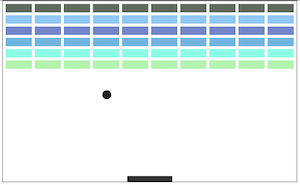
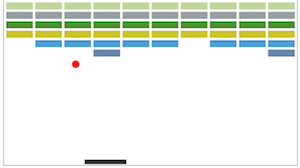
Auto ball placement, new screenshot. Fix top border hit.

diff --git a/breakoid.js b/breakoid.js
@@ -1,30 +1,28 @@
-// Good JS class template: http://labs.tomasino.org/2011/11/10/javascript-class-template/
-
 ;(function (window) {
 
     function Breakoid (canvasId) {
 
-        Breakoid.TICKS_INTERVAL = 10
-        Breakoid.NBROWS         = 6
+        Breakoid.TICKS_INTERVAL = 1
+        Breakoid.NBROWS         = 1
         Breakoid.NBCOLS         = 10
         Breakoid.BRICK_HEIGHT   = 15
         Breakoid.EMPTY_SPACE    = 5
         Breakoid.BAR_HEIGHT     = 10
         Breakoid.BAR_COLOR      = '#333333'
-        Breakoid.BAR_SPEED      = 4
+        Breakoid.BAR_SPEED      = 3
         Breakoid.BAR_FRICTION   = 0.95
         Breakoid.BALL_COLOR     = 'red'
         Breakoid.BALL_SIZE      = 8
 
         var _bricksArray = new Array(Breakoid.NBROWS)
+        , _ctx // context
         , _gameWidth, _gameHeight // canvas width/height
         , _brickWidth
-        , _ctx // context
         , _barX, _barY, _barWidth, _barVelocity = 0 // bar properties
-        , _ballX = 100, _ballY = 250, _ballDirX = 1, _ballDirY = -1 // ball vars //TODO PLACE BALL AUTO
+        , _ballX, _ballY, _ballDirX = -1, _ballDirY = 1 // ball properties
         , _interval // interval
         , _won, _pause = false // state of the game
-        , _keys = []
+        , _keys = [] 
 
         function __construct (canvasId) {
             var canvas = document.getElementById(canvasId)
@@ -32,10 +30,12 @@
                 _ctx        = canvas.getContext('2d')
                 _gameWidth  = canvas.width
                 _gameHeight = canvas.height
-                _barWidth   = _gameWidth / 7.0
+                _barWidth   = _gameWidth / 8.0
                 _brickWidth = (_gameWidth / Breakoid.NBCOLS) - (Breakoid.EMPTY_SPACE * Breakoid.NBCOLS / Breakoid.NBCOLS+0.5)
                 _barX       = (canvas.width / 2) - (_barWidth / 2)
                 _barY       = canvas.height - Breakoid.BAR_HEIGHT - 2
+                _ballX      = _gameWidth / 1.3
+                _ballY      = _gameHeight / 2
                 buildGame()
             } else {
                 console.log('No canvas with id: %s', canvasId)
@@ -57,30 +57,22 @@
             // Bar
             _ctx.fillStyle = Breakoid.BAR_COLOR
             _ctx.fillRect(_barX, _barY, _barWidth, Breakoid.BAR_HEIGHT)
-            // Bar movements
-            //window.document.onkeydown = keyboardListener
-            document.body.addEventListener("keydown", function (e) {
+            // Bar movements and keyboard shortcuts
+            window.document.onkeydown = function (e) {
                 _keys[e.keyCode] = true
-            });
-            document.body.addEventListener("keyup", function (e) {
+                if (e.keyCode == 80) {
+                    if (!_pause) pause()
+                    else resume()
+                } 
+            }
+            window.document.onkeyup = function (e) {
                 _keys[e.keyCode] = false
-            });
-        };
-
-        function keyboardListener (e) {
-            /*switch (e.keyCode) {
-                case 80: // pause
-                    if (!_pause)
-                        pause()
-                    else
-                        resume()
-                break
-            }*/
+            }
         };
 
         function tick () {
             clearContext()
-            ballOnTick()
+            ballOnTick() // Ball
             // Bricks
             _won = true
             for (var i=0 ; i<Breakoid.NBROWS ; i++) {
@@ -94,22 +86,21 @@
             }
             //if (_won)
                 //gameWon()
-            // Bar
-            barOnTick()
+            barOnTick() // Bar
         };
 
         function ballOnTick () {
             _ballX += _ballDirX
             _ballY += _ballDirY
             if (_ballX + Breakoid.BALL_SIZE > _gameWidth) _ballDirX  = -1 // right border
-            else if (_ballX < 0 + Breakoid.BALL_SIZE)     _ballDirX  = 1 // left border
+            else if (_ballX - Breakoid.BALL_SIZE < 0 )    _ballDirX  = 1 // left border
             if (_ballY + Breakoid.BALL_SIZE > _gameHeight) _ballDirY = -1 // game is lost gameLost()
             else {
-                if (_ballY < 0 + Breakoid.BALL_SIZE) _ballDirY = 1 // top border
+                if (_ballY - Breakoid.BALL_SIZE < 0 ) _ballDirY = 1 // top border
                 else {
-                    // Ball touches the bar
-                    if ( 
-                        _ballY > _gameHeight - Breakoid.BAR_HEIGHT - Breakoid.BALL_SIZE
+                    // Ball touch the bar
+                    if  (
+                        _ballY + Breakoid.BALL_SIZE > _barY - 1
                         && (_ballX >= _barX && _ballX <= _barX + _barWidth)
                         ) {
                         _ballDirY = -1
@@ -117,12 +108,13 @@
                     }
                 }
             }
-            
-            if (_ballY - Breakoid.BALL_SIZE <= Breakoid.NBROWS * (Breakoid.BRICK_HEIGHT + Breakoid.EMPTY_SPACE) // ball is in brick zone
-                && _ballY - Breakoid.BALL_SIZE > Breakoid.BALL_SIZE/2) { // ball touched the top border: no need to enter here.
+
+            // Ball is in brick zone (First empty space row, the top of the game, is NOT considered as brick zone because of...)
+            if (_ballY - Breakoid.BALL_SIZE <= Breakoid.NBROWS * (Breakoid.BRICK_HEIGHT + Breakoid.EMPTY_SPACE) 
+                && _ballY - Breakoid.BALL_SIZE > Breakoid.BRICK_HEIGHT) {
                 var Y = Math.floor((_ballY - Breakoid.BALL_SIZE + Breakoid.BRICK_HEIGHT) / (Breakoid.BRICK_HEIGHT + Breakoid.EMPTY_SPACE)) - 1
                 var X = Math.floor(_ballX / (_brickWidth + Breakoid.EMPTY_SPACE))
-                if (_bricksArray[Y][X]) {
+                if (_bricksArray[Y][X]) { // ...this. And because we don't need to do this stuff anyway.
                     _bricksArray[Y][X] = false
                     _ballDirY = 1
                 }
@@ -139,8 +131,7 @@
             if (_keys[39]) { // right
                 if (_barVelocity < Breakoid.BAR_SPEED)
                     _barVelocity++
-            }
-            else if (_keys[37]) { // left
+            } else if (_keys[37]) { // left
                 if (_barVelocity > -Breakoid.BAR_SPEED)
                     _barVelocity--
             }

diff --git a/index.html b/index.html
@@ -9,7 +9,7 @@
     <body>
         <div class="container">
             <center>
-                <canvas id="breakoid" width="520" height="320" style="border: 1px solid #333">
+                <canvas id="breakoid" width="620" height="350" style="border: 1px solid #333">
                     Your browser does not support the canvas element.
                 </canvas>
             </center>

diff --git a/README.md b/README.md
@@ -24,7 +24,7 @@ breakoid.start()
 ## Disclaimer and suggestions
 This is a very basic game and the actual architecture is basic, but I'd wish to make it functional and playable. Code will be improved.
 
-**Fell free to submit pull requests or roadmap suggestions.** Especially if your good at Maths and stuff like this.
+**Fell free to submit pull requests or roadmap suggestions.** Especially if your good at Maths, collisions and stuff like this.
 
 ## Roadmap
 - Finish the basics (ex: sides/top of bricks collisions).
